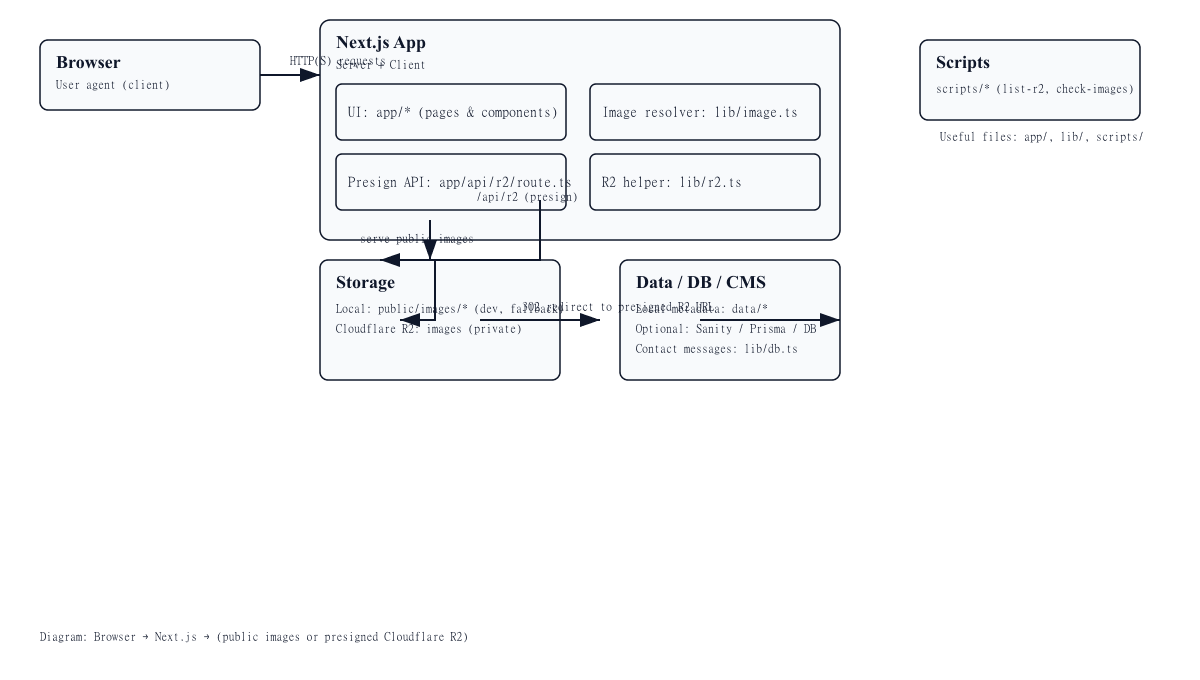
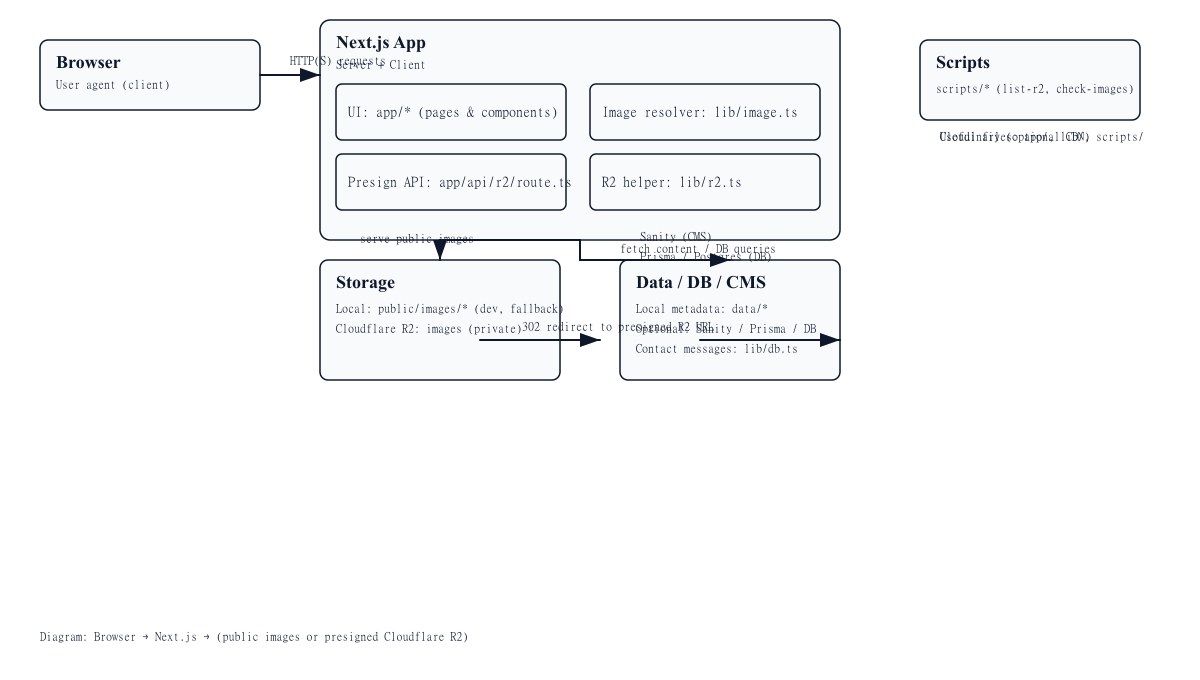
Replace SVG with Mermaid diagram and add PNG fallback

diff --git a/docs/ARCHITECTURE.md b/docs/ARCHITECTURE.md
@@ -9,6 +9,43 @@
 This document summarizes the architecture, request flows, key files, and useful commands for the Viksphere site.
 
 ---
+# Project Architecture — Viksphere Site
+
+<!-- Editable architecture diagram (Mermaid) -->
+
+```mermaid
+flowchart LR
+	Browser["Browser<br/><small>User agent</small>"]
+	Next["Next.js App<br/><small>Server + Client</small>"]
+	UI["UI<br/><small>app/*</small>"]
+	ImageResolver["Image resolver<br/><small>lib/image.ts</small>"]
+	API["Presign API<br/><small>app/api/r2/route.ts</small>"]
+	R2["Cloudflare R2<br/><small>images (private)</small>"]
+	Public["Public images<br/><small>public/images/* (static)</small>"]
+	Sanity["Sanity (CMS)"]
+	DB["Prisma / Postgres (DB)"]
+	Cloudinary["Cloudinary<br/><small>optional CDN/transform</small>"]
+	Scripts["Scripts<br/><small>scripts/*</small>"]
+
+	Browser --> Next
+	Next --> UI
+	Next --> ImageResolver
+	ImageResolver --> Public
+	ImageResolver --> API
+	API --> R2
+	Browser -.-> R2["Browser (follows 302 to presigned R2 URL)"]
+	Next --> Sanity
+	Next --> DB
+	Scripts --> Cloudinary
+	Scripts --> R2
+	Cloudinary --> Public
+
+	classDef smallText fill:#fff,stroke:#fff,color:#666
+```
+
+This document summarizes the architecture, request flows, key files, and useful commands for the Viksphere site.
+
+---
 
 ## High-level Diagram (text)
 
@@ -118,4 +155,4 @@ node scripts/check-images.js
 
 ---
 
-If you want, I can also generate a visual SVG/PNG of this diagram and add it to `docs/architecture.png` (or embed the diagram in `README.md`).
+If you want, I can also export this Mermaid diagram to a PNG and add it to `docs/architecture.png` as a visual fallback.
